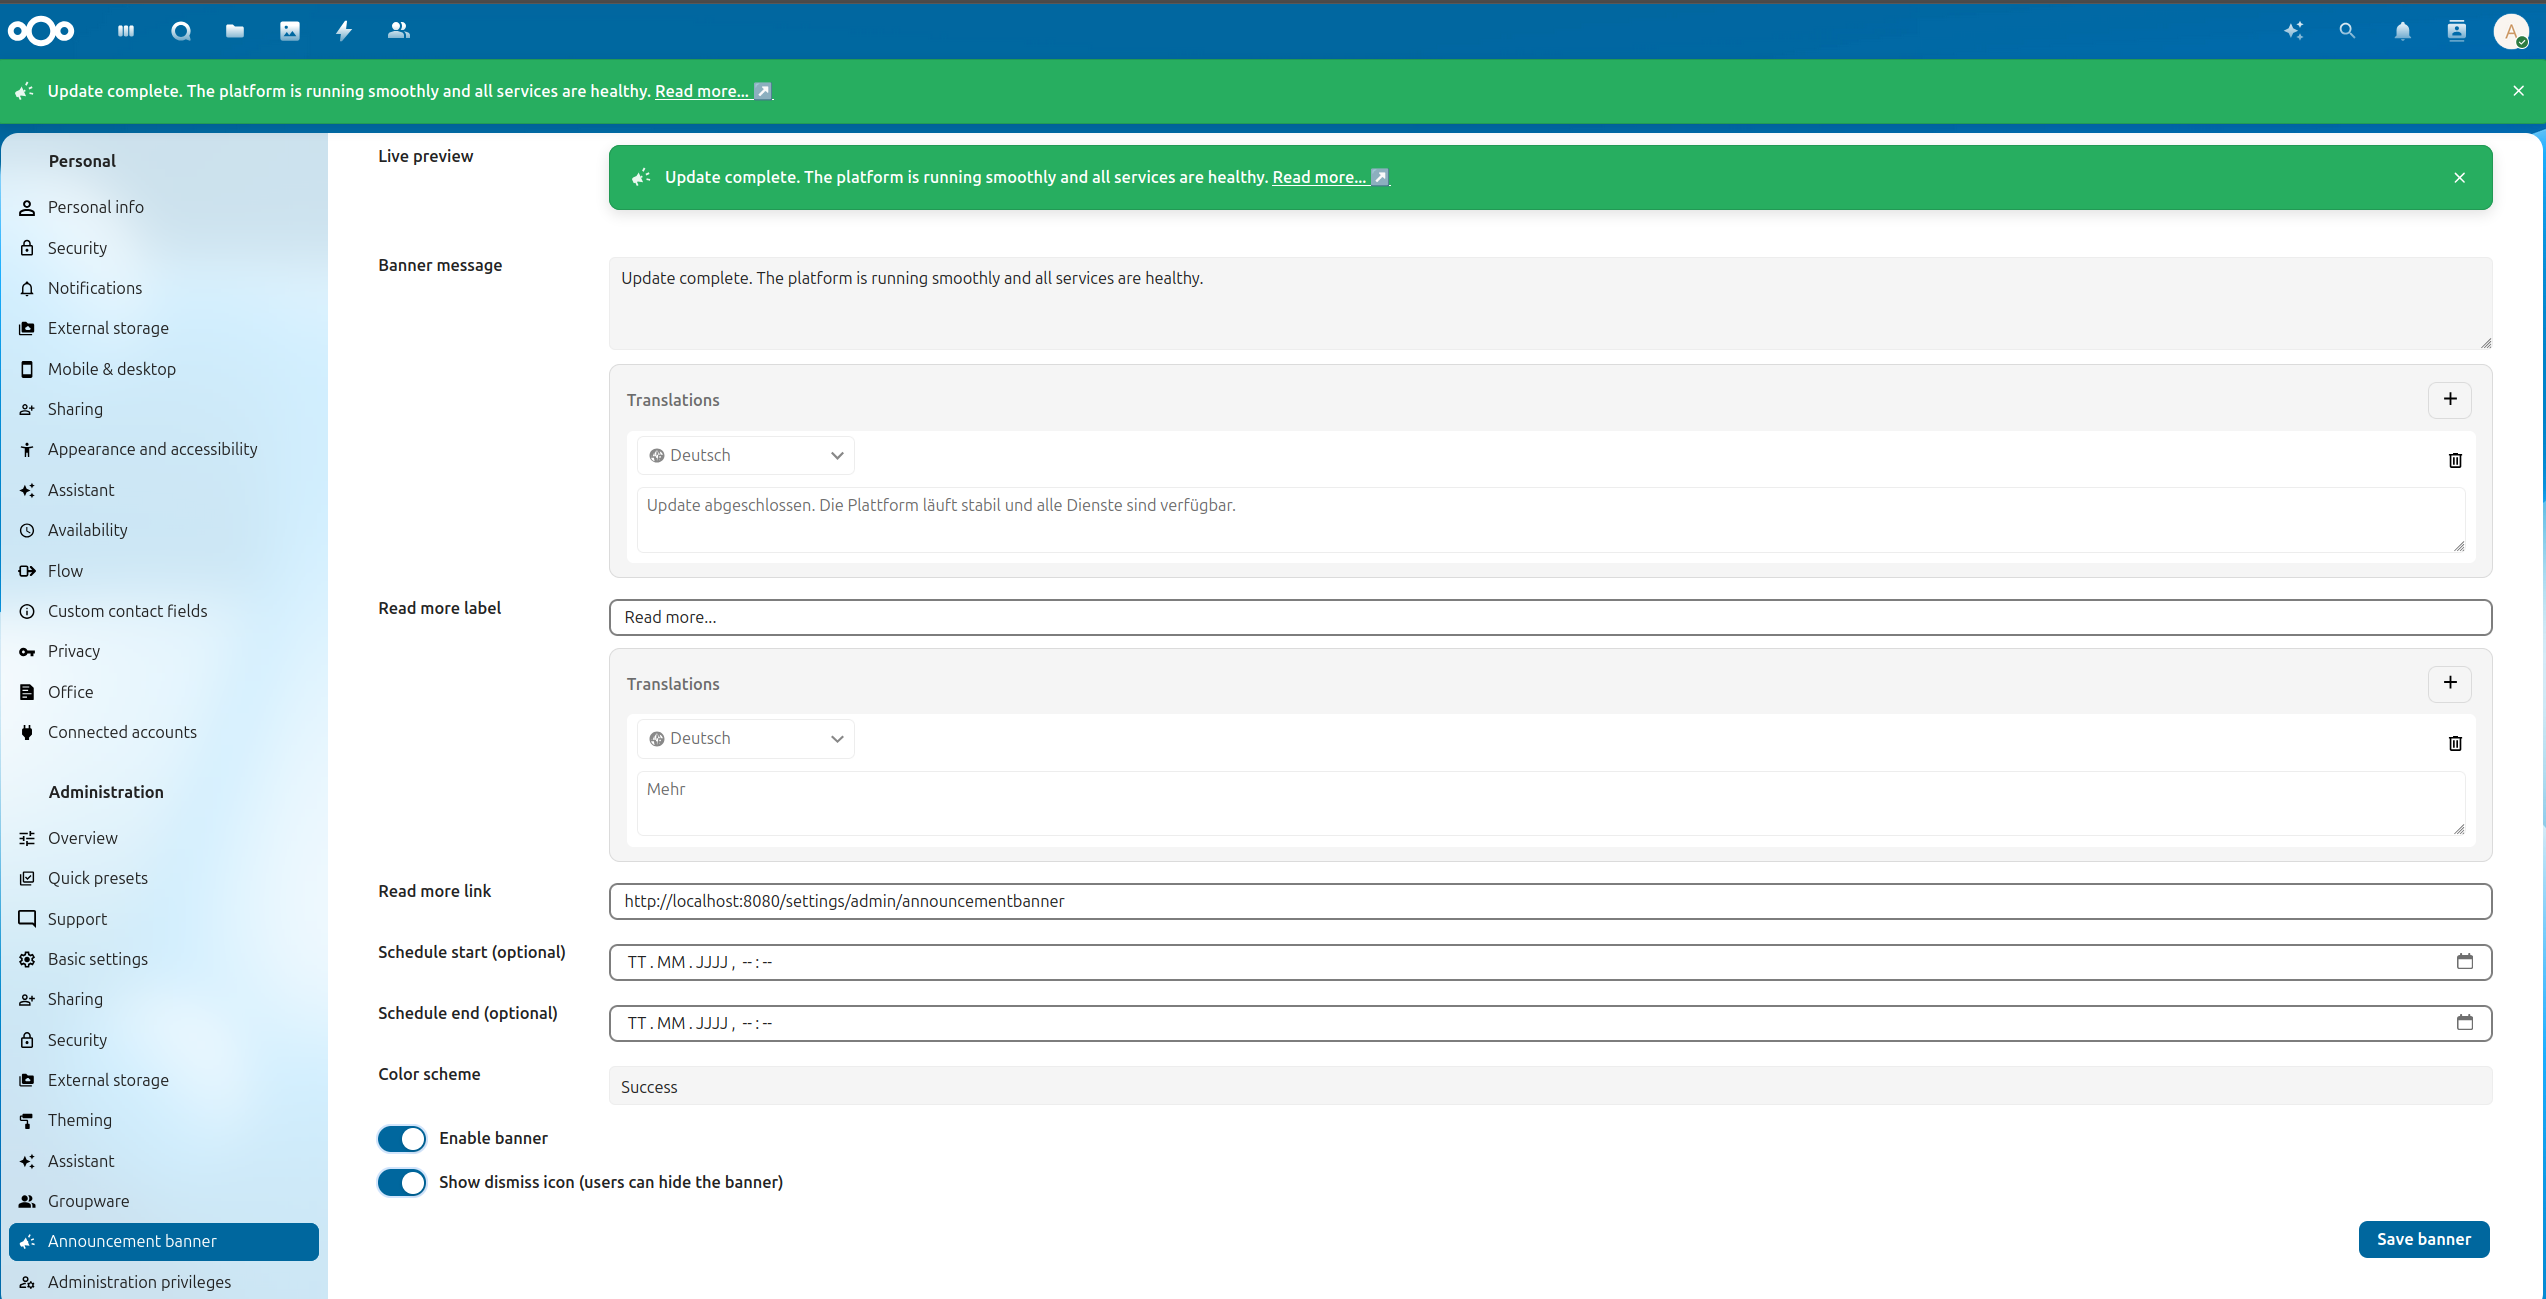
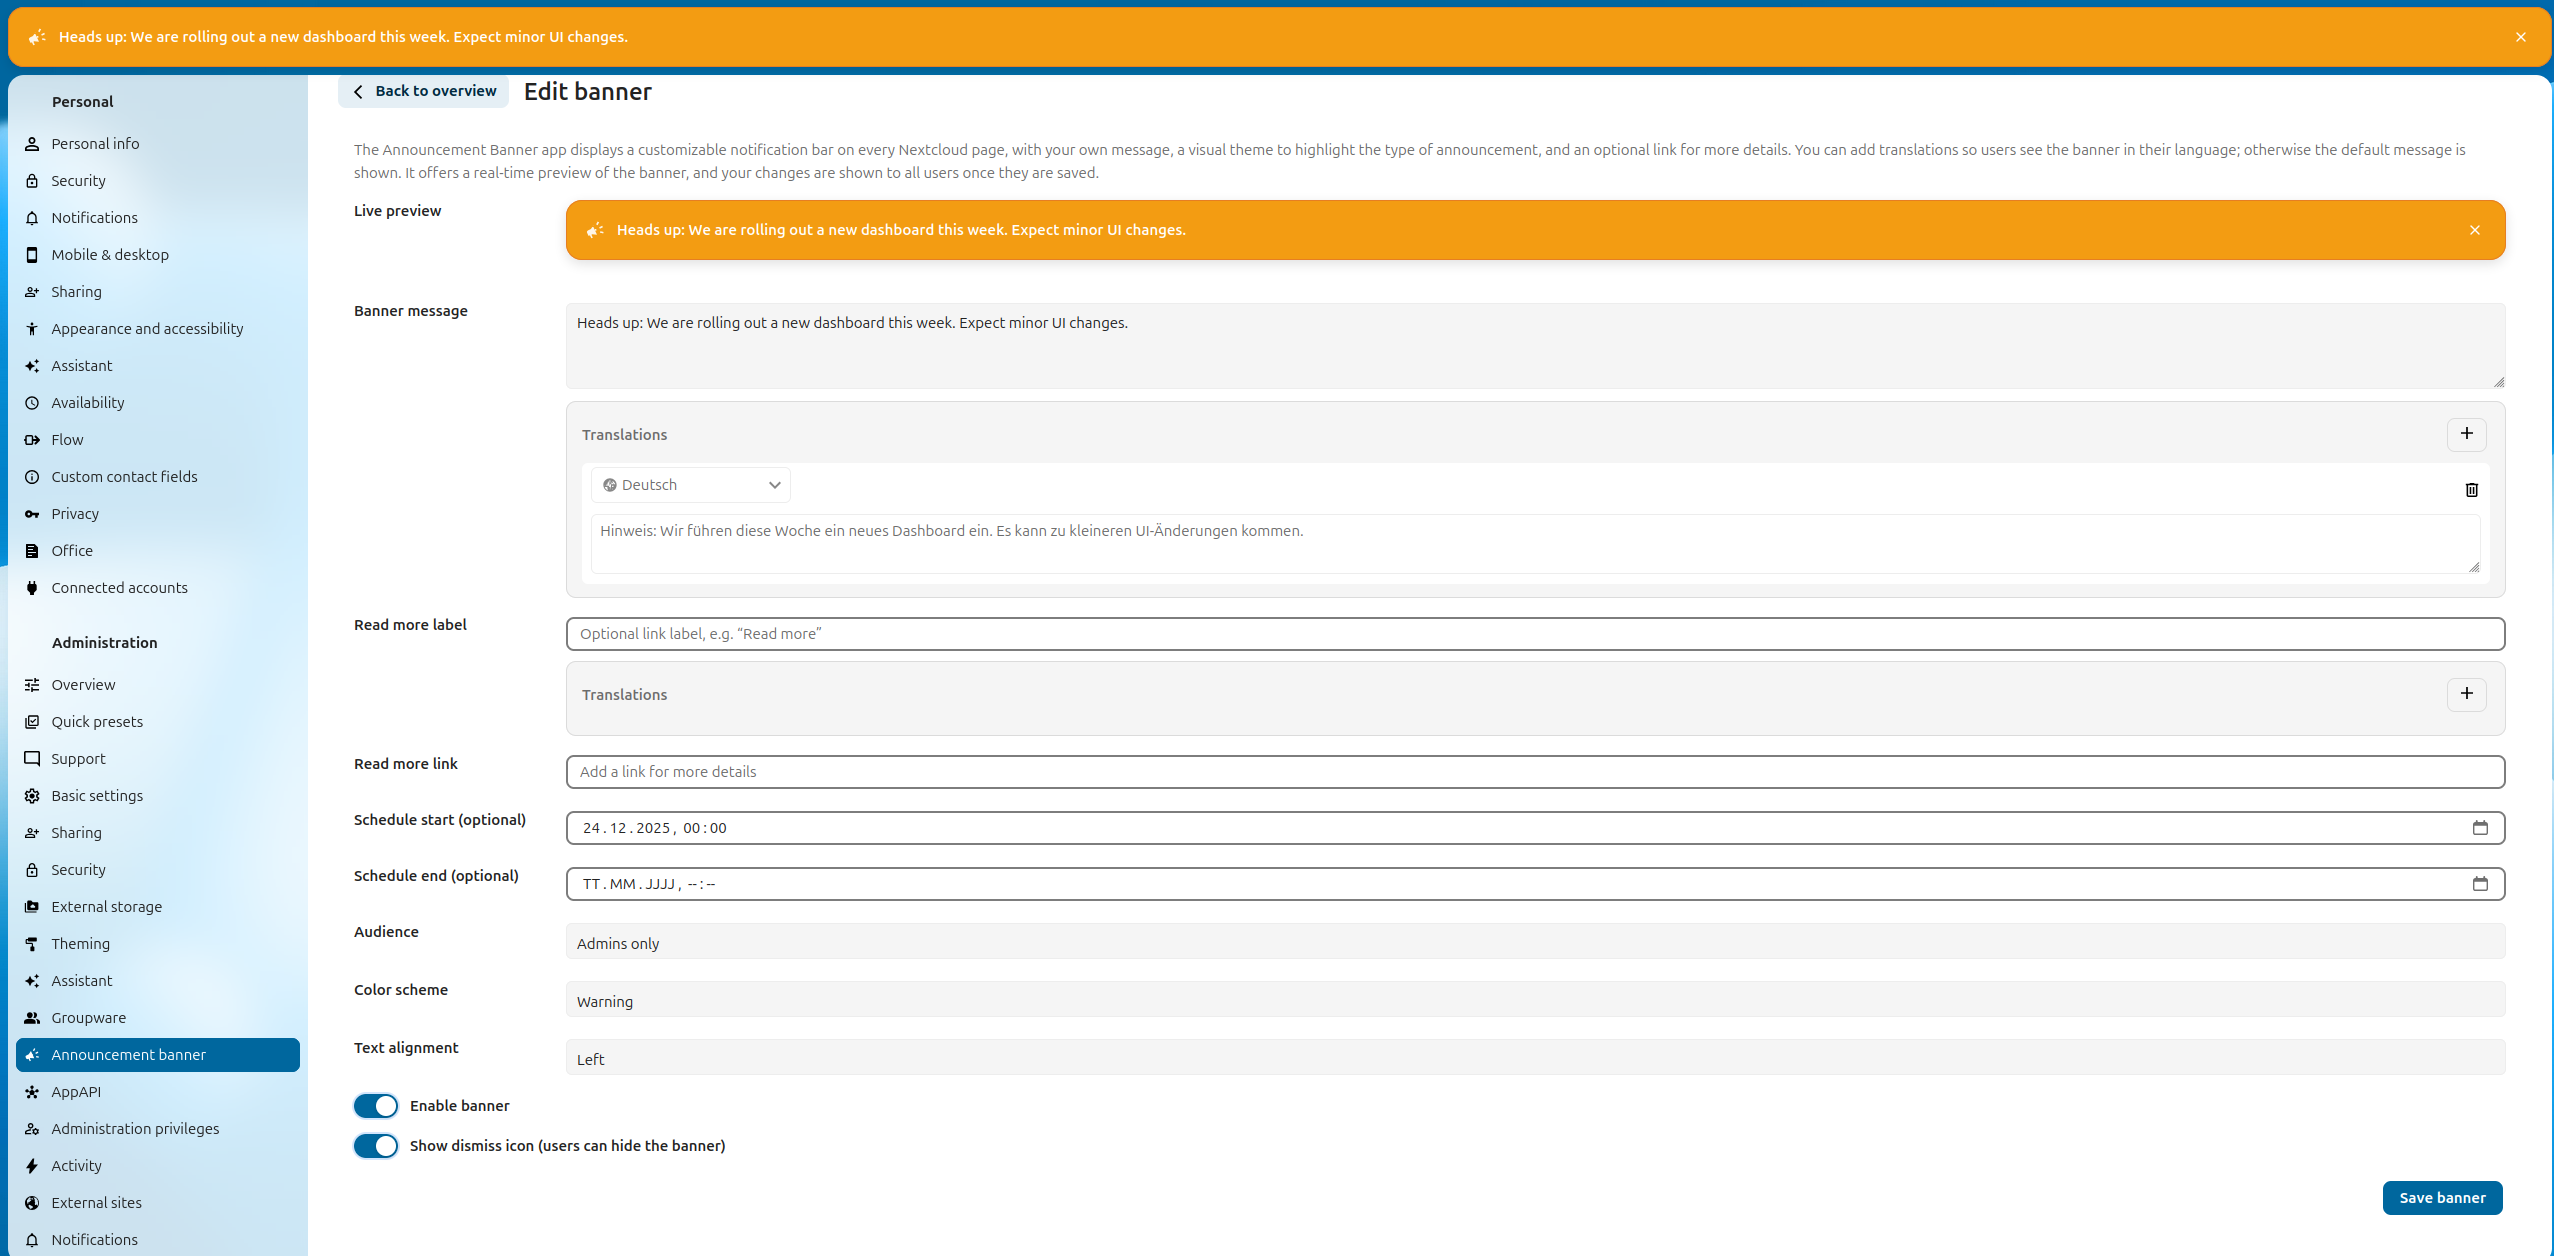
Update screenshots for new features

diff --git a/CHANGELOG.md b/CHANGELOG.md
@@ -2,6 +2,10 @@
 
 All notable changes to this project will be documented in this file.
 
+## 2.3.1
+
+- Update screenshots with new features
+
 ## 2.3.0
 
 - Add audience targeting for banners: everyone, admins only, or specific groups.
